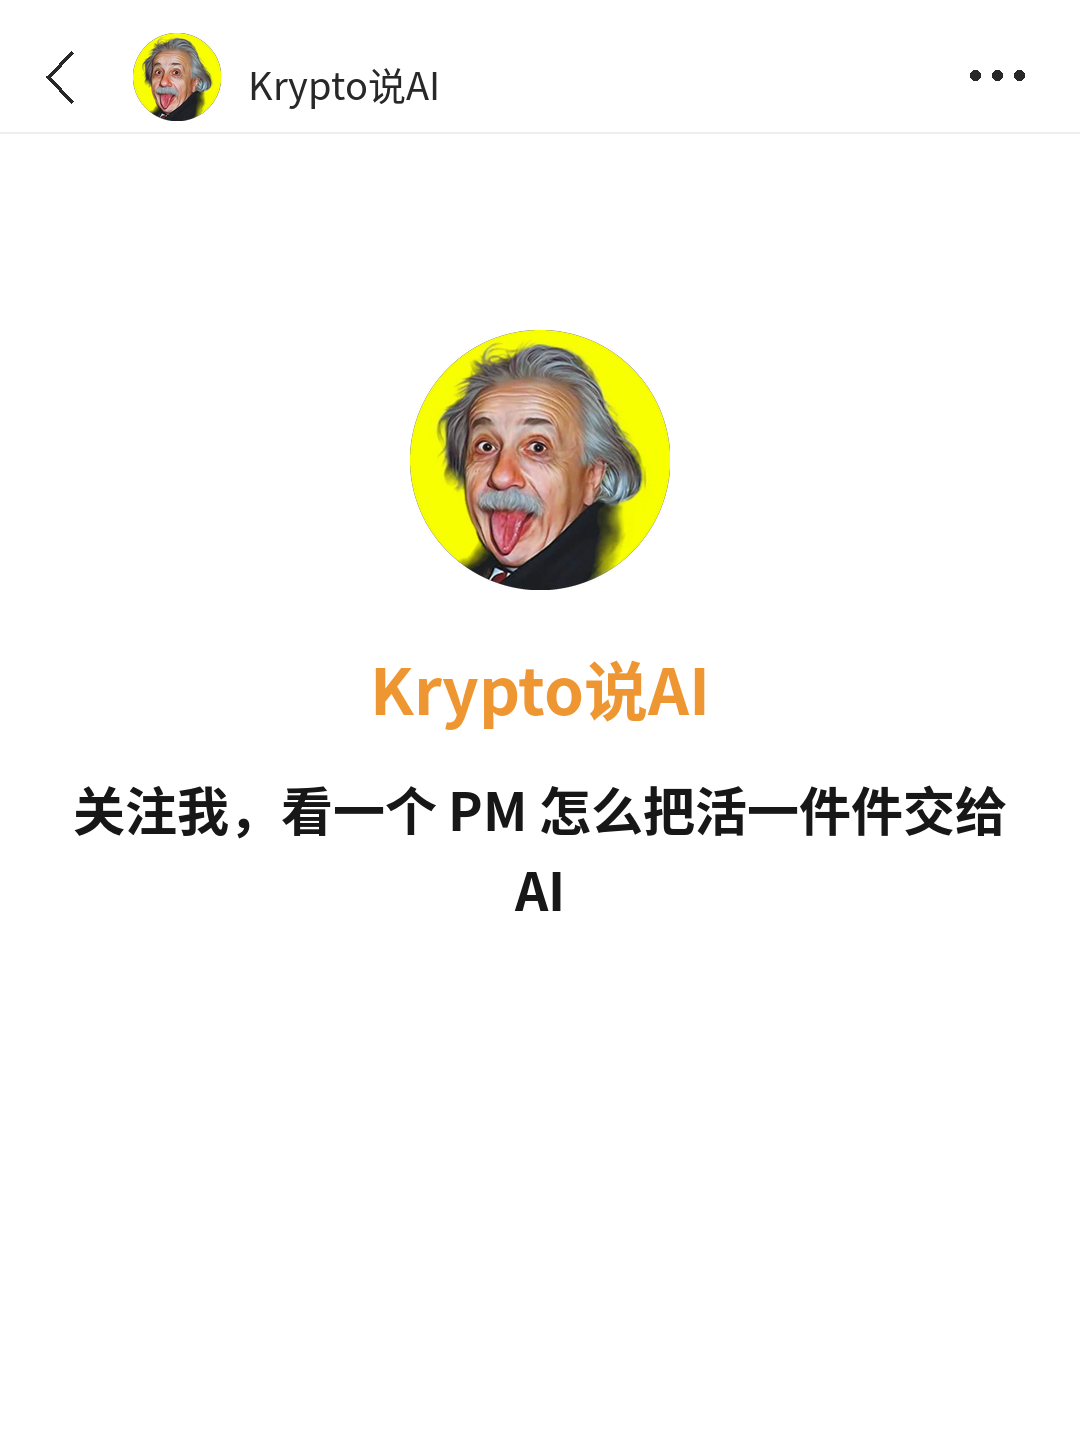
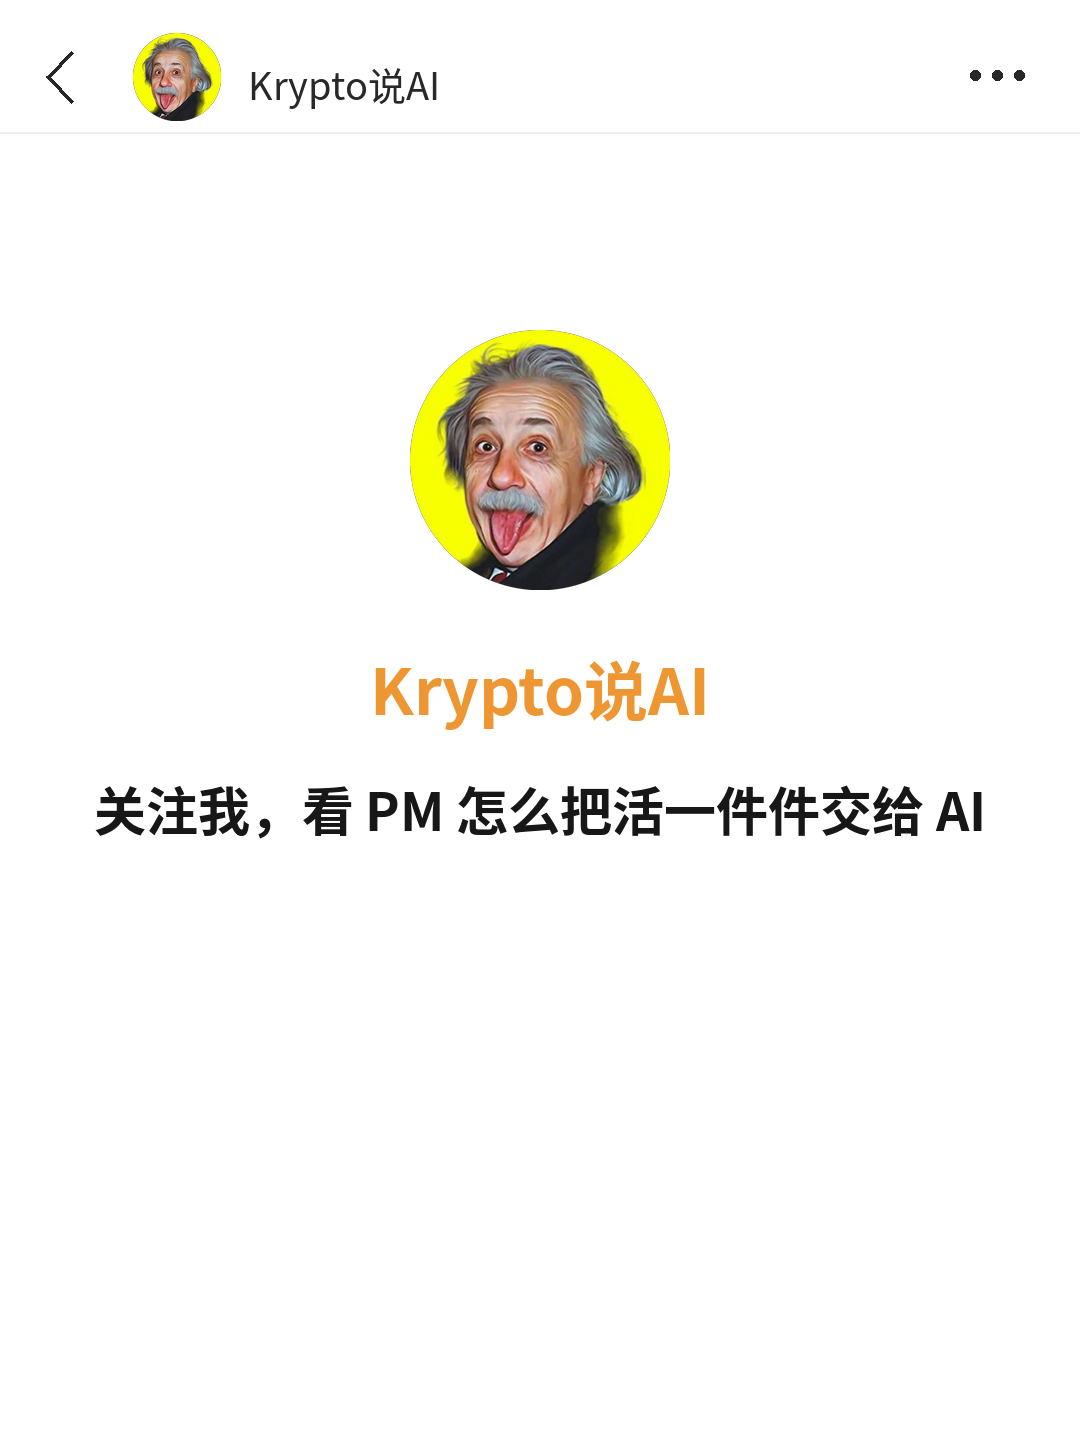
名片卡 CTA 缩到一行
Claude-Session: https://claude.ai/code/session_015PCFAaTRLY2GD1Se7DV5ug

Changed region(s): [[0.0611, 0.5312, 0.9472, 0.6562]]

diff --git a/skills/meme-xhs/scripts/render_meme.py b/skills/meme-xhs/scripts/render_meme.py
@@ -55,7 +55,7 @@ BLACK, GREY, NAME_ORANGE, LINE = (23, 23, 23), (170, 170, 170), (238, 150, 50), 
 NO_START = "，。、；：？！）」』”’》〉%…·"
 NO_END = "《「『“‘（〈"
 YELLOW, KICKER_GREY = (255, 224, 61), (110, 110, 110)
-CARD, CARD_NOTE = "关注我，看一个 PM 怎么把活一件件交给 AI", ""   # 10-09 用户定：名片卡只留一句关注 CTA，不要定位句，不写「海外一手」这种分析别人的话
+CARD, CARD_NOTE = "关注我，看 PM 怎么把活一件件交给 AI", ""   # 10-09 用户定：名片卡只留一句关注 CTA，不要定位句，不写「海外一手」这种分析别人的话
 COVER_CAP, COVER_CAP_NOIMG = 150, 175      # 封面大字字号上限：有插图 / 没插图
 DARK_MEAN, DARK_SHARE = 70, 0.70           # 封面插图：平均亮度低于 70 或深色像素超过七成，缩略图里是一块黑
 HERE = os.path.dirname(os.path.abspath(__file__))

diff --git a/skills/meme-xhs/SKILL.md b/skills/meme-xhs/SKILL.md
@@ -224,6 +224,6 @@ SendUserFile：`overview.jpg`、`标题.txt`、`标题备选.txt`、`正文.txt`
 ## 和账号其他规则的关系
 
 - 原号没有封面大字卡，第 1 页就是正文，本 skill 也一样（09-29 试过单独封面页，09-30 用户看后说太刻意，已恢复）。首页的钩子是 `headline` 和 `hero`，正文页版式不变。
-- **末页默认出名片卡**（09-29 起）：大头像、账号名、一句定位。09-30 用户定：名片卡和正文都**不写**「这个号由 AI 全权运营 / 后台数据每周公开」，也**不写**「评论区扣 1 领……」；领取物想给就在评论里直接给内容。依据：09-22 至 09-28 一周观看 964、主页访客 67、涨粉 5，读者读完在笔记里看不到关注的理由。定位句用 `card` 改，第二行用 `card_note` 改，`card: off` 不出名片卡。名片卡 10-09 起只放一句关注 CTA（「关注我，看一个 PM 怎么把活一件件交给 AI」，用户定；没有定位句，不写「海外一手」这类分析别人的话），不预告具体选题。原号没有 CTA，正文.txt 里的二选一问题默认不加。
+- **末页默认出名片卡**（09-29 起）：大头像、账号名、一句定位。09-30 用户定：名片卡和正文都**不写**「这个号由 AI 全权运营 / 后台数据每周公开」，也**不写**「评论区扣 1 领……」；领取物想给就在评论里直接给内容。依据：09-22 至 09-28 一周观看 964、主页访客 67、涨粉 5，读者读完在笔记里看不到关注的理由。定位句用 `card` 改，第二行用 `card_note` 改，`card: off` 不出名片卡。名片卡 10-09 起只放一句关注 CTA（「关注我，看 PM 怎么把活一件件交给 AI」，用户定；没有定位句，不写「海外一手」这类分析别人的话），不预告具体选题。原号没有 CTA，正文.txt 里的二选一问题默认不加。
 - 不预告下一期、不放链接、不写「我的看法：」「我的看法是 / 我的做法是」这类领起语（判断直接说），和账号其他栏目一致。
 - 用户要的是知识卡、漫画或 elsewhere 式长文精读时，用对应的 skill，不用这个。

diff --git a/CLAUDE.md b/CLAUDE.md
@@ -41,7 +41,7 @@
 - 不改写、不复述对标笔记的内容，只学结构
 - AI 起草的稿子，发布时按平台入口标注 AI 辅助；不代发、不自动评论私信
 - 不预告下一期；封面不放栏目期数
-- 关注引导（用户 2026-10-02，10-07 改，**10-09 改**）：图下 `正文.txt` 第一段照旧；**末页名片卡 10-09 起也放关注 CTA**（用户定）：只留一句「关注我，看一个 PM 怎么把活一件件交给 AI」，不要定位句（用户 10-09：「海外一手」一看就是在分析别人，要按 AI builder 定位、让人想从我这学东西，CTA 要高级一点），给理由不空喊，不预告具体选题；正文页上仍不放
+- 关注引导（用户 2026-10-02，10-07 改，**10-09 改**）：图下 `正文.txt` 第一段照旧；**末页名片卡 10-09 起也放关注 CTA**（用户定）：只留一句「关注我，看 PM 怎么把活一件件交给 AI」，不要定位句（用户 10-09：「海外一手」一看就是在分析别人，要按 AI builder 定位、让人想从我这学东西，CTA 要高级一点），给理由不空喊，不预告具体选题；正文页上仍不放
 
 ## 文件
 - `账号/档案.md`：定位卡、账号四件套、观点库、四轮访谈记录
